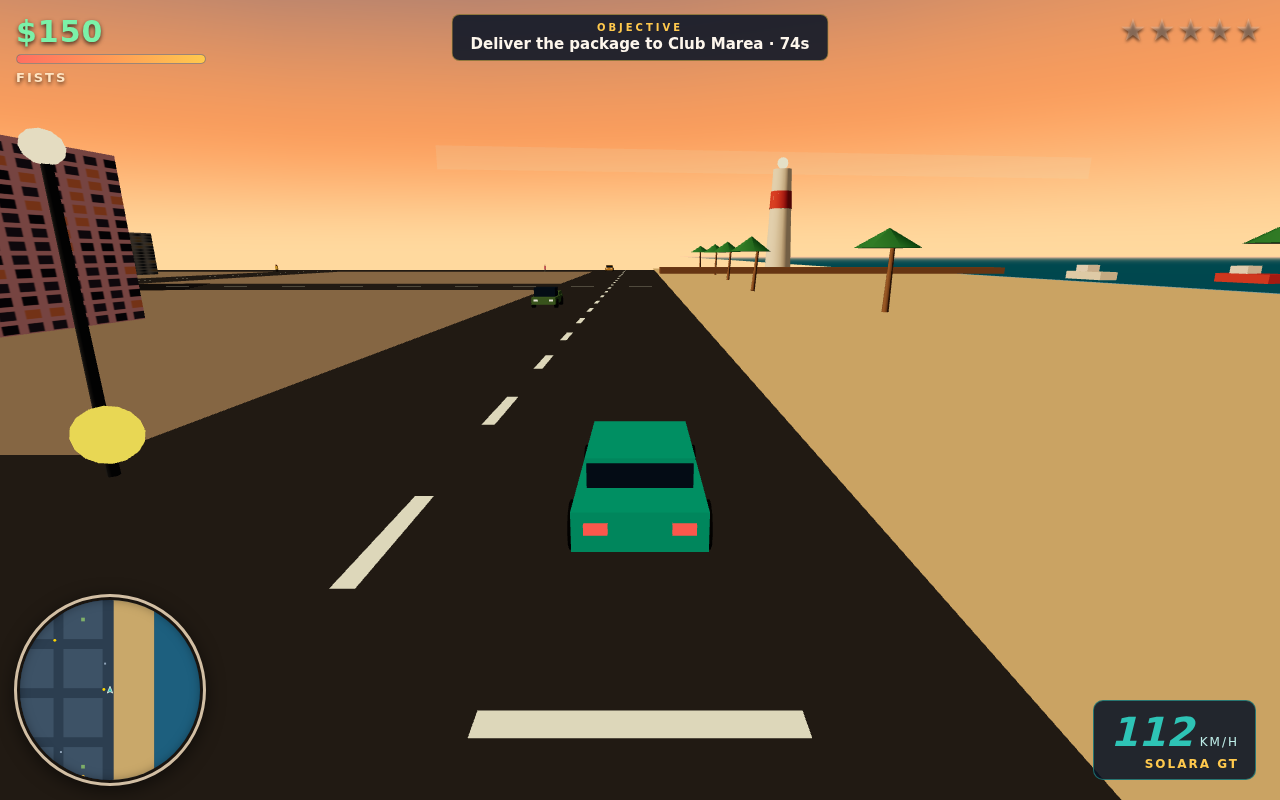
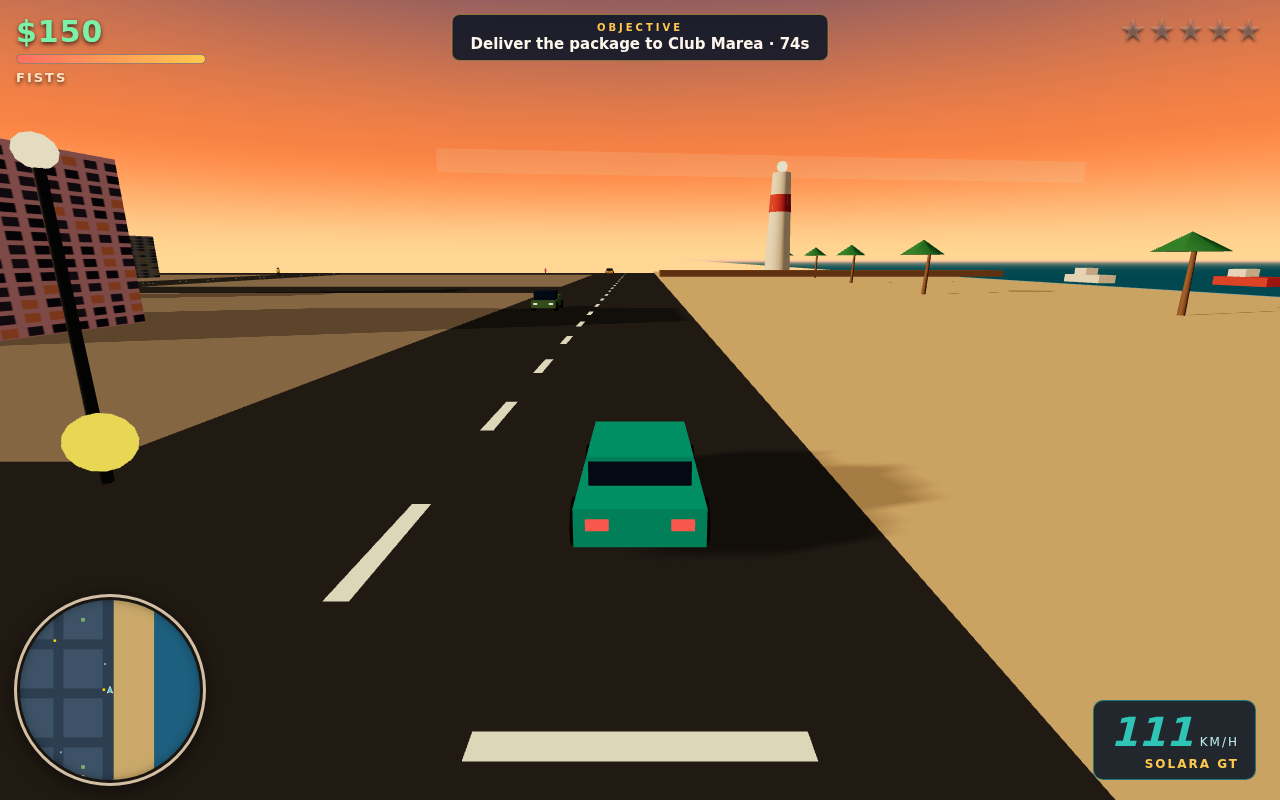
Polish pass: cover shows SPD pursuing from behind (side tracking shot, staggered 5/9/14m formation, bright lightbar glows); fix shadow frustum while driving; visible sun disc, richer sunset sky, tighter fog, stronger sun; palms clear of camera corridor; recapture all 4 screenshots

diff --git a/game/js/scenery.js b/game/js/scenery.js
@@ -1,5 +1,5 @@
-// scenery.js — the sun-soaked look: sunset sky dome, warm directional sun with
-// shadows, ocean, beach, palm trees, street lamps and the El Faro lighthouse.
+// scenery.js — the sun-soaked look: sunset sky dome with a visible sun disc, warm
+// directional sun with tight shadows, ocean, beach, palms, lamps and El Faro.
 import * as THREE from '../vendor/three.module.min.js';
 import { CFG } from './config.js';
 import { range, chance } from './random.js';
@@ -15,19 +15,20 @@ varying vec3 vDir;
 uniform vec3 sunDir;
 void main() {
   float h = clamp(vDir.y, -0.05, 1.0);
-  vec3 zenith = vec3(0.16, 0.30, 0.58);
-  vec3 mid = vec3(0.99, 0.62, 0.36);
-  vec3 horizon = vec3(1.0, 0.85, 0.62);
-  vec3 col = mix(horizon, mid, smoothstep(0.0, 0.18, h));
-  col = mix(col, zenith, smoothstep(0.12, 0.65, h));
+  vec3 zenith = vec3(0.09, 0.20, 0.50);
+  vec3 mid = vec3(1.0, 0.52, 0.26);
+  vec3 horizon = vec3(1.0, 0.84, 0.58);
+  vec3 col = mix(horizon, mid, smoothstep(0.0, 0.16, h));
+  col = mix(col, zenith, smoothstep(0.10, 0.62, h));
   float s = max(dot(normalize(vDir), normalize(sunDir)), 0.0);
-  col += vec3(1.0, 0.75, 0.45) * pow(s, 90.0) * 1.4;
-  col += vec3(1.0, 0.6, 0.3) * pow(s, 8.0) * 0.22;
+  col += vec3(1.0, 0.92, 0.72) * pow(s, 420.0) * 2.6;  // the sun disc itself
+  col += vec3(1.0, 0.72, 0.40) * pow(s, 48.0) * 0.55;  // tight halo
+  col += vec3(1.0, 0.58, 0.28) * pow(s, 6.0) * 0.20;   // wide sunset glow
   gl_FragColor = vec4(col, 1.0);
 }`;
 
 export function buildScenery(scene, rng) {
-  const sunDir = new THREE.Vector3(-0.72, 0.28, 0.35).normalize();
+  const sunDir = new THREE.Vector3(-0.85, 0.24, 0.28).normalize();
 
   const sky = new THREE.Mesh(
     new THREE.SphereGeometry(1400, 24, 16),
@@ -38,16 +39,16 @@ export function buildScenery(scene, rng) {
     })
   );
   scene.add(sky);
-  scene.fog = new THREE.Fog(0xffc9a0, 220, 1050);
+  scene.fog = new THREE.Fog(0xffc9a0, 150, 780);
 
-  const hemi = new THREE.HemisphereLight(0xffd9b0, 0x44546a, 0.95);
+  const hemi = new THREE.HemisphereLight(0xffd9b0, 0x44546a, 1.05);
   scene.add(hemi);
-  const sun = new THREE.DirectionalLight(0xffd2a0, 2.7);
+  const sun = new THREE.DirectionalLight(0xffd2a0, 3.0);
   sun.position.copy(sunDir).multiplyScalar(300);
   sun.castShadow = true;
   sun.shadow.mapSize.set(2048, 2048);
-  sun.shadow.camera.left = -95; sun.shadow.camera.right = 95;
-  sun.shadow.camera.top = 95; sun.shadow.camera.bottom = -95;
+  sun.shadow.camera.left = -80; sun.shadow.camera.right = 80;
+  sun.shadow.camera.top = 80; sun.shadow.camera.bottom = -80;
   sun.shadow.camera.near = 50; sun.shadow.camera.far = 700;
   sun.shadow.bias = -0.0006;
   scene.add(sun); scene.add(sun.target);
@@ -79,7 +80,7 @@ export function buildScenery(scene, rng) {
 
   // Palm trees: instanced trunks + stylized frond crowns, on the beach and park.
   const spots = [];
-  for (let z = -270; z <= 270; z += 26) spots.push({ x: 300 + range(rng, -4, 10), z: z + range(rng, -6, 6) });
+  for (let z = -270; z <= 270; z += 26) spots.push({ x: 320 + range(rng, -4, 16), z: z + range(rng, -6, 6) });
   for (let k = 0; k < 10; k++) spots.push({ x: range(rng, -24, 24), z: 80 + range(rng, -24, 24) });
   for (let k = 0; k < 14; k++) spots.push({ x: range(rng, -260, 260), z: range(rng, -260, 260) });
   const trunkGeo = new THREE.CylinderGeometry(0.16, 0.26, 5.4, 6);

diff --git a/game/js/shots.js b/game/js/shots.js
@@ -15,6 +15,7 @@ function putPlayerInCar(G, type, x, z, angle, color, speed) {
   G.player.inCar = car;
   G.player.mesh.visible = false;
   G.player.x = x; G.player.z = z;
+  G.player.mesh.position.set(x, 0, z); // shadow frustum follows from frame one
   return car;
 }
 
@@ -35,12 +36,13 @@ function putPedOnRing(G, idx, blockJ, z) {
   p.dir = 1; p.panic = 0; p.alive = true; p.fall = 0;
 }
 
-function chaseCarBehind(G, x, z, angle) {
+function chaseCarBehind(G, x, z, angle, hold, speed) {
   G.police.spawnChase();
   const car = G.police.cars[G.police.cars.length - 1];
   car.pos.set(x, 0, z);
   car.angle = angle; car.mesh.rotation.y = angle;
-  car.speed = 24;
+  car.speed = speed;
+  car.shotHold = hold;
   return car;
 }
 
@@ -52,24 +54,25 @@ export function stageShot(G, name) {
   G.police.clearWanted();
 
   if (name === 'chase') {
-    // cover: three-star pursuit down the coastal strip during the heist escape
+    // cover: side tracking shot from the beach — the Solara GT flees north with
+    // three SPD interceptors right on its bumper, sunset sun over the city
     putPlayerInCar(G, 'solara', 284, 60, Math.PI, 0xff6f61, 24);
     G.shotCruise = 24;
     G.missions.index = 3;
     G.missions.active = { def: G.missions.defs[3], step: 2, timer: 0 };
     G.missions.refreshObjective();
     G.police.heat = 112; G.police.stars = 3; G.police.sinceCrime = 0;
-    chaseCarBehind(G, 284, 84, Math.PI);
-    chaseCarBehind(G, 276, 100, Math.PI);
-    chaseCarBehind(G, 284, 118, Math.PI);
-    putTrafficNear(G, 30, 12, 1);
+    chaseCarBehind(G, 284, 68, Math.PI, 5, 27);   // nearly ramming
+    chaseCarBehind(G, 276, 74, Math.PI, 9, 28);   // overtaking in the left lane
+    chaseCarBehind(G, 284, 82, Math.PI, 14, 30);
+    putTrafficNear(G, -140, 12, -1);
     for (let k = 0; k < 5; k++) putPedOnRing(G, k, 4, 52 + k * 6);
-    // front tracking shot: the camera faces the car so the pursuing SPD is in frame
-    G.cam.yaw = 0; G.cam.pitch = 0.3;
-    G.cam.snapBehind(G.player.inCar.pos, 0);
+    G.cam.shotDist = 24;
+    G.cam.yaw = -Math.PI / 2 - 0.22; G.cam.pitch = 0.22;
+    G.cam.snapBehind(G.player.inCar.pos, G.cam.yaw);
   } else if (name === 'street') {
     // on foot on the beach boardwalk, lighthouse ahead, ocean to the right
-    G.player.respawn(312, -40);
+    G.player.respawn(330, -40);
     G.player.angle = Math.PI + 0.3;
     G.player.weapon = 0;
     G.missions.index = 0;
@@ -105,7 +108,7 @@ export function stageShot(G, name) {
     G.player.weapon = 1;
     G.player.angle = Math.PI / 2;
     G.police.heat = 55; G.police.stars = 2; G.police.sinceCrime = 0;
-    chaseCarBehind(G, 36, 280, -Math.PI / 2);
+    chaseCarBehind(G, 36, 280, -Math.PI / 2, 12, 20);
     G.police.spawnOfficer(2, 266);
     G.police.spawnOfficer(6, 288);
     G.cam.yaw = Math.PI / 2; G.cam.pitch = 0.24;

diff --git a/game/js/vehicles.js b/game/js/vehicles.js
@@ -52,11 +52,27 @@ export function makeCarMesh(type, color) {
   if (type === 'police') {
     const hood = new THREE.Mesh(new THREE.BoxGeometry(s.wid * 0.98, 0.1, s.len * 0.3), new THREE.MeshLambertMaterial({ color: 0x14213d }));
     hood.position.set(0, 0.96, s.len * 0.3); g.add(hood);
-    const barR = new THREE.Mesh(new THREE.BoxGeometry(0.5, 0.18, 0.3), new THREE.MeshBasicMaterial({ color: 0xff2222 }));
-    const barB = new THREE.Mesh(new THREE.BoxGeometry(0.5, 0.18, 0.3), new THREE.MeshBasicMaterial({ color: 0x2266ff }));
-    barR.position.set(-0.3, 1.62, -s.len * 0.06); barB.position.set(0.3, 1.62, -s.len * 0.06);
+    const barR = new THREE.Mesh(new THREE.BoxGeometry(0.55, 0.22, 0.42), new THREE.MeshBasicMaterial({ color: 0xff2222 }));
+    const barB = new THREE.Mesh(new THREE.BoxGeometry(0.55, 0.22, 0.42), new THREE.MeshBasicMaterial({ color: 0x2266ff }));
+    barR.position.set(-0.32, 1.66, -s.len * 0.06); barB.position.set(0.32, 1.66, -s.len * 0.06);
     g.add(barR); g.add(barB);
     g.userData.lightbar = [barR.material, barB.material];
+    // crossed glow planes so the flash reads from any camera angle, even against the sunset
+    const glowMats = [];
+    for (const [gx, gc] of [[-0.32, 0xff3333], [0.32, 0x3377ff]]) {
+      const mat = new THREE.MeshBasicMaterial({
+        color: gc, transparent: true, opacity: 0,
+        depthWrite: false, side: THREE.DoubleSide,
+      });
+      for (const ry of [0, Math.PI / 2]) {
+        const plane = new THREE.Mesh(new THREE.PlaneGeometry(2.8, 1.6), mat);
+        plane.position.set(gx, 2.05, -s.len * 0.06);
+        plane.rotation.y = ry;
+        g.add(plane);
+      }
+      glowMats.push(mat);
+    }
+    g.userData.lightglow = glowMats;
   }
   if (type === 'taxi') {
     const ts = new THREE.Mesh(new THREE.BoxGeometry(0.9, 0.24, 0.36), new THREE.MeshBasicMaterial({ color: 0xffe9b0 }));

diff --git a/game/js/police.js b/game/js/police.js
@@ -146,7 +146,11 @@ export class Police {
         while (diff < -Math.PI) diff += Math.PI * 2;
         let throttle = 1, steer = Math.max(-1, Math.min(1, diff * 2.6));
         if (dist < 9 && !p.inCar) throttle = 0.15;
-        if (G.shotMode && dist < 12) throttle = 0.05; // staged scenes hold formation
+        if (G.shotMode) {
+          // staged scenes: hold a staggered pursuit formation, lanes locked
+          steer = 0;
+          if (dist < (car.shotHold || 8)) throttle = 0.05;
+        }
         if (Math.abs(car.speed) < 1.2 && dist > 10) {
           car.stuckT += dt;
           if (car.stuckT > 1.6) { car.reverseT = 0.9; car.stuckT = 0; }
@@ -161,13 +165,18 @@ export class Police {
           if (this.stars >= 3) this.spawnOfficer(car.pos.x - 1.5, car.pos.z);
         }
       }
-      // flashing lightbar
+      // flashing lightbar and its additive glow
       const bar = car.mesh.userData.lightbar;
       if (bar) {
         const on = car.mode === 'chase';
         const phase = Math.floor(G.time * 6) % 2 === 0;
         bar[0].color.setHex(on && phase ? 0xff2222 : 0x551111);
         bar[1].color.setHex(on && !phase ? 0x2266ff : 0x112255);
+        const glow = car.mesh.userData.lightglow;
+        if (glow) {
+          glow[0].opacity = on && phase ? 0.75 : 0.04;
+          glow[1].opacity = on && !phase ? 0.75 : 0.04;
+        }
       }
     }
     G.audio.setSiren(this.stars > 0, sirenDist);

diff --git a/game/js/camera.js b/game/js/camera.js
@@ -8,6 +8,7 @@ export class ChaseCamera {
     this.yaw = Math.PI;
     this.pitch = 0.32;
     this.dist = 6.5;
+    this.shotDist = 0; // staged screenshot scenes can demand a wider framing
     this.current = new THREE.Vector3(0, 8, 12);
     this.look = new THREE.Vector3();
     this.sens = 0.0026;
@@ -18,7 +19,7 @@ export class ChaseCamera {
     this.pitch = Math.max(0.06, Math.min(1.25, this.pitch));
   }
   update(dt, target, inCar, speed01) {
-    const wantDist = inCar ? 9.5 + speed01 * 2.5 : 6.5;
+    const wantDist = this.shotDist || (inCar ? 9.5 + speed01 * 2.5 : 6.5);
     this.dist += (wantDist - this.dist) * Math.min(1, dt * 4);
     const height = inCar ? 2.4 : 1.7;
     const cp = Math.cos(this.pitch), sp = Math.sin(this.pitch);
@@ -58,7 +59,9 @@ export class ChaseCamera {
   }
   snapBehind(target, angle) {
     this.yaw = angle;
-    this.current.set(target.x - Math.sin(angle) * this.dist, target.y + 4, target.z - Math.cos(angle) * this.dist);
+    const d = this.shotDist || this.dist;
+    this.dist = d;
+    this.current.set(target.x - Math.sin(angle) * d, target.y + 4, target.z - Math.cos(angle) * d);
     this.look.copy(target);
   }
 }

diff --git a/game/js/player.js b/game/js/player.js
@@ -115,6 +115,9 @@ export class Player {
     G.audio.setEngine(Math.abs(car.speed) / car.spec.top, Math.max(0, ctrl.throttle));
     this.x = car.pos.x; this.z = car.pos.z;
     this.angle = car.angle;
+    // keep the hidden body in sync so the sun's shadow frustum and camera focus
+    // follow the car, not the last place Dani stood on foot
+    this.mesh.position.set(this.x, 0, this.z);
     if (car.disabled) this.exitCar();
     // run over pedestrians
     if (Math.abs(car.speed) > 5) {
